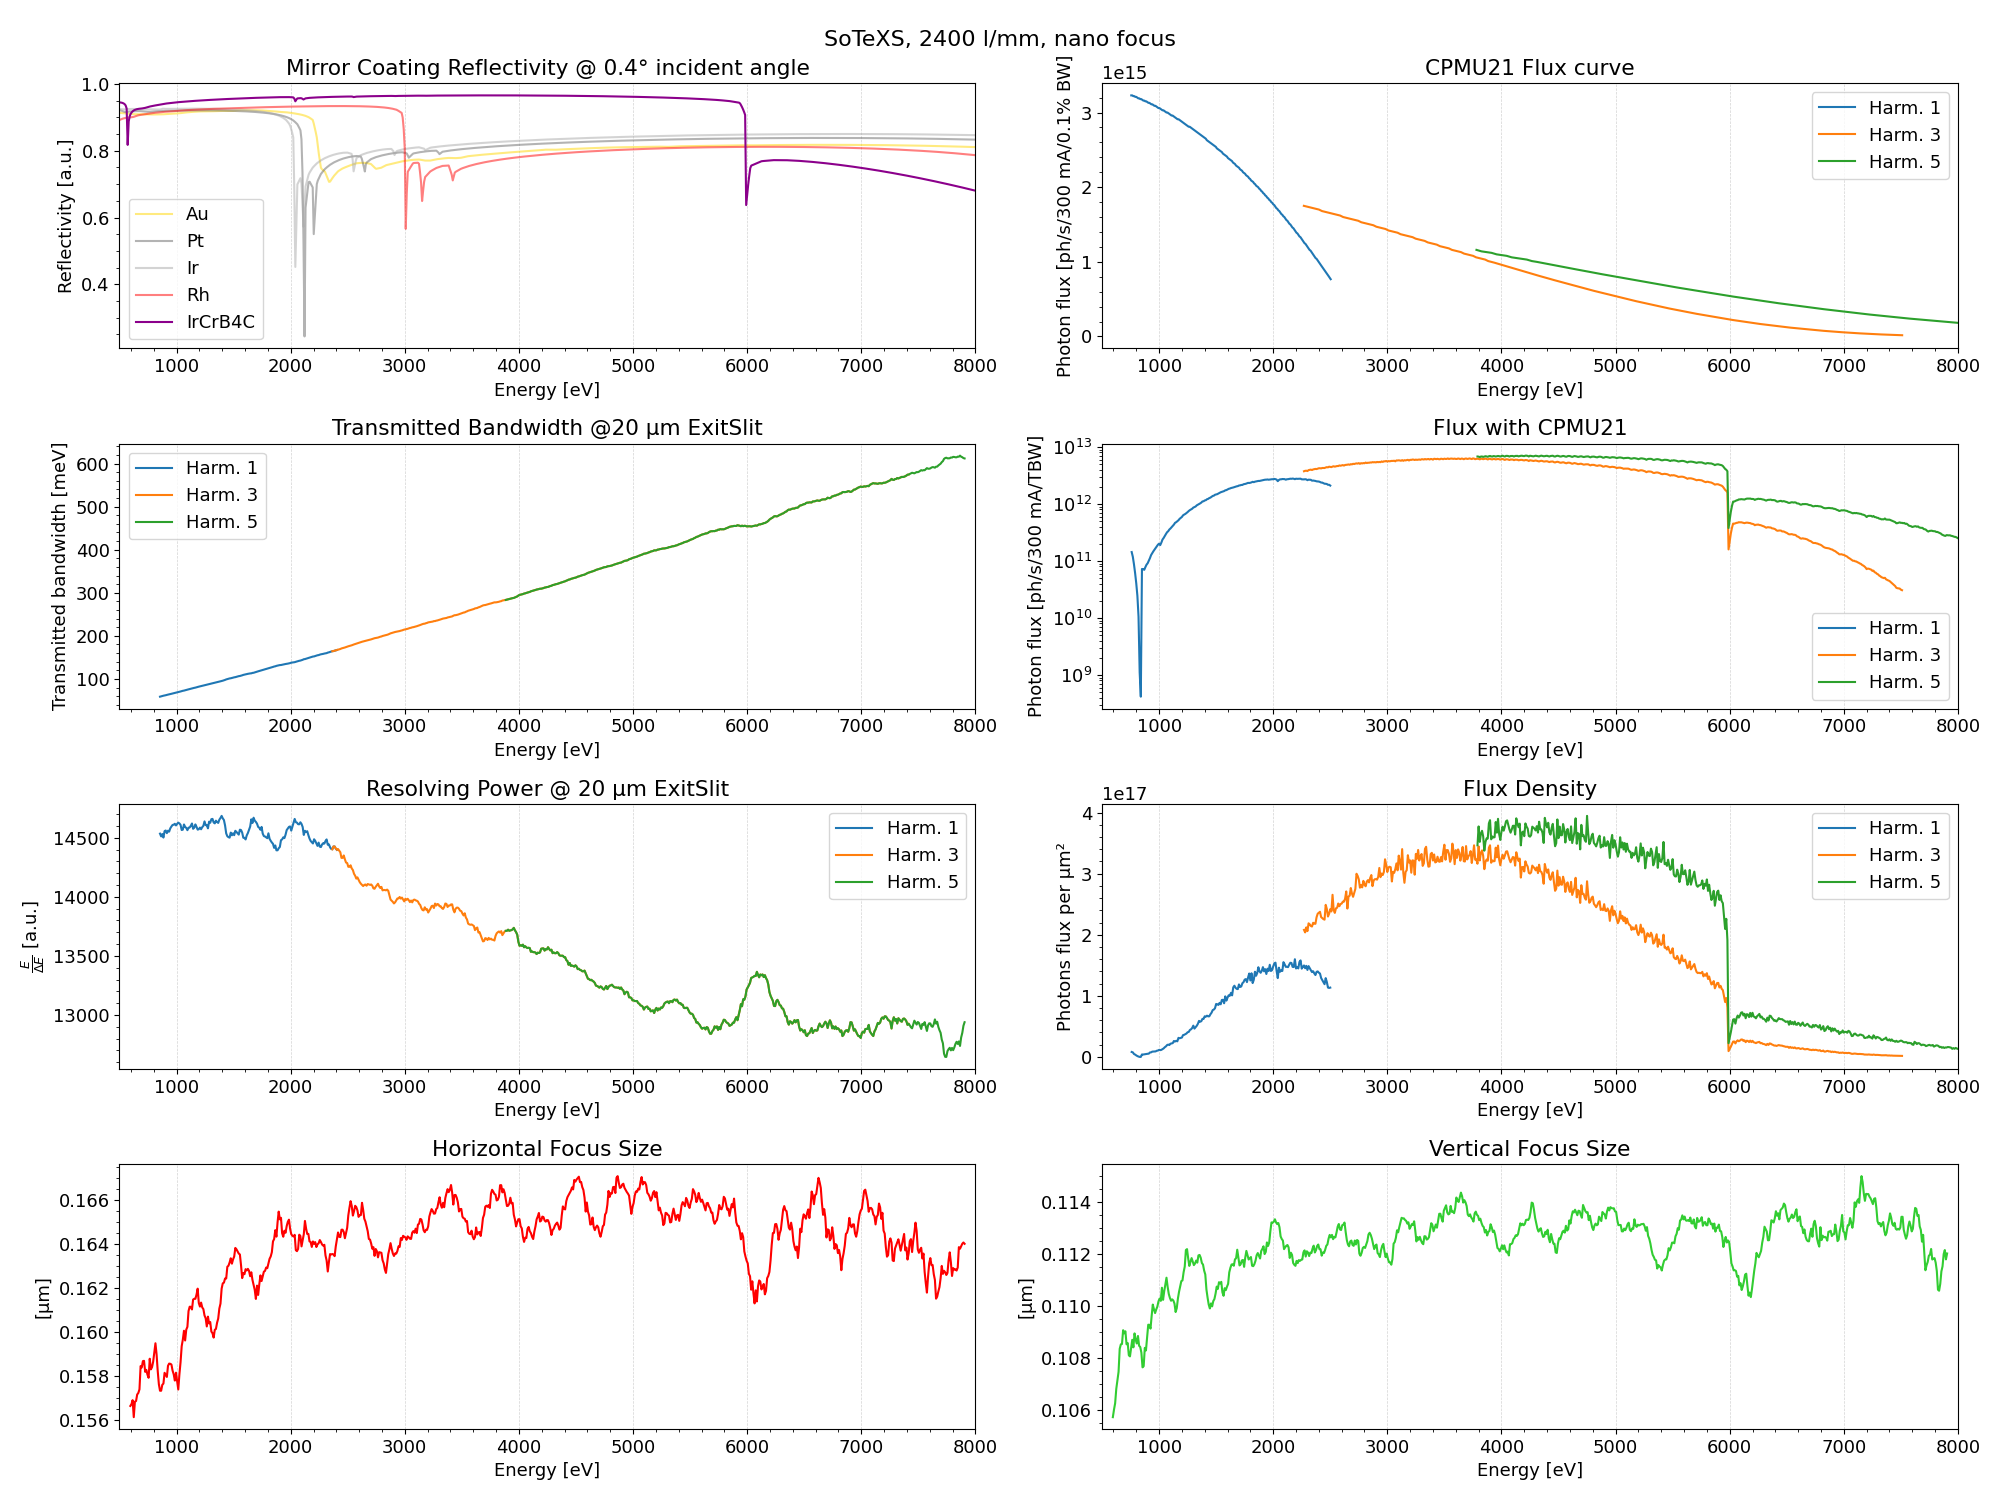
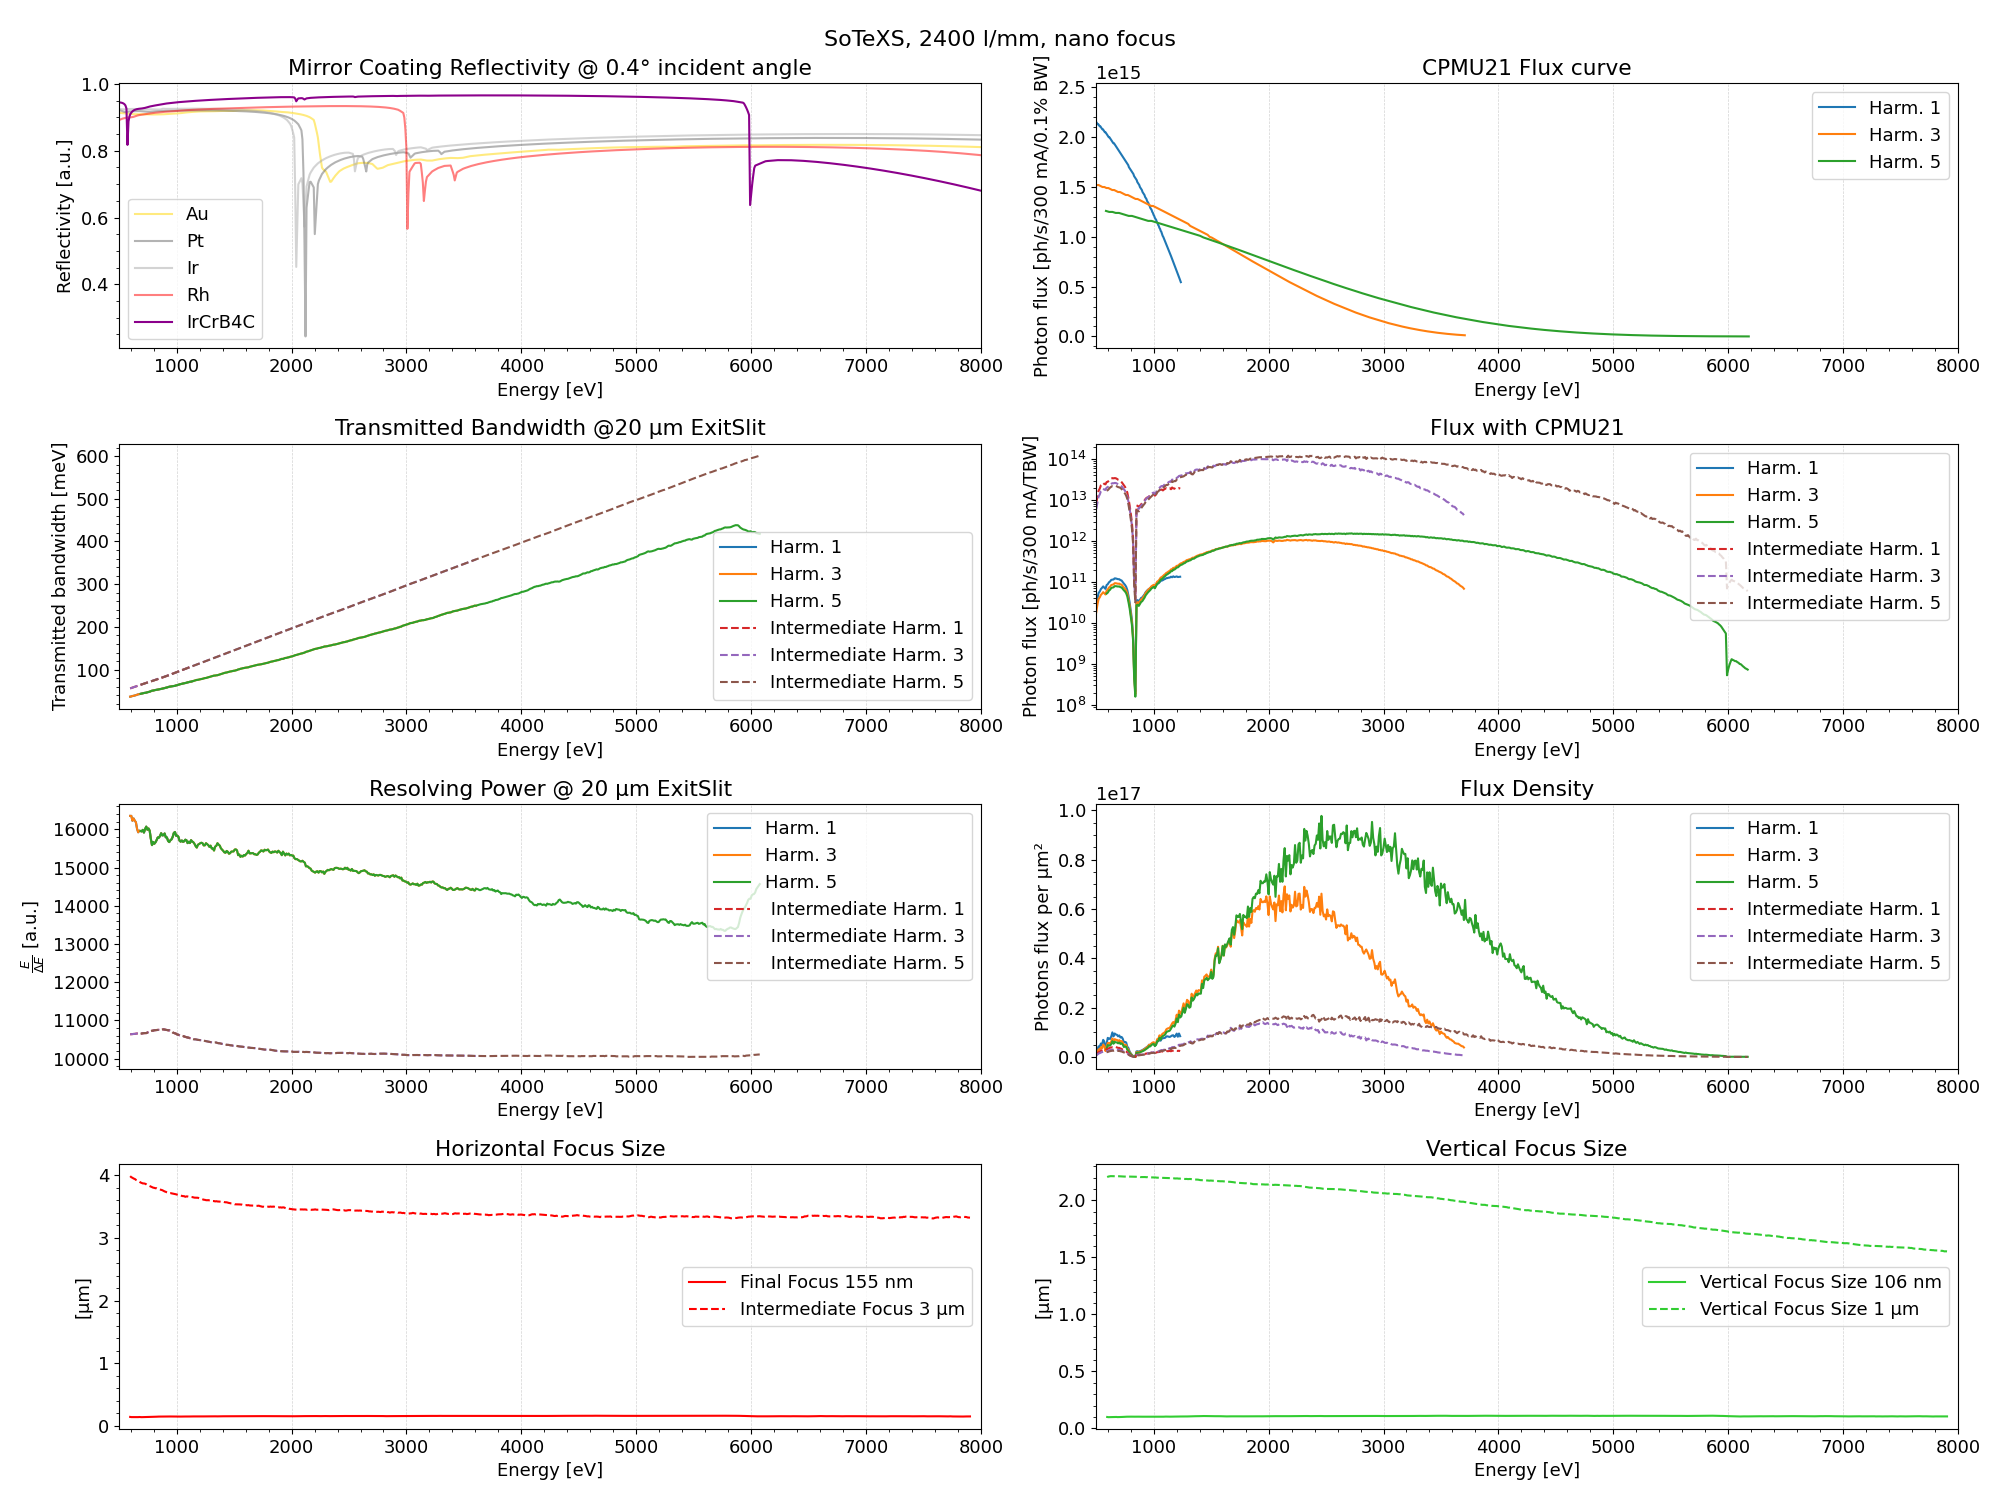
eval with intermediate focus

diff --git a/beamlines/Signature1-SoTeXS/simulations/characterization/eval_2400.py b/beamlines/Signature1-SoTeXS/simulations/characterization/eval_2400.py
@@ -23,6 +23,10 @@ mov_av = p.moving_average
 BL_file_path = os.path.join('RAYPy_Simulation_sotexs_2400', 'DetectorAtFocus_RawRaysOutgoing.csv')
 BL_df = pd.read_csv(BL_file_path)
 
+# Read CSV-File of the Beamline Simulation
+BL_file_path_intermediate = os.path.join('RAYPy_Simulation_sotexs_2400', 'IntermediateFocus_RawRaysIncoming.csv')
+BL_df_intermediate = pd.read_csv(BL_file_path_intermediate)
+
 
 ##############################################################
 # PLOTTING AND ANALYSIS
@@ -104,6 +108,15 @@ for harm in harms:
              mov_av(filtered_df['Bandwidth']*1000, window),
              label=f'Harm. {harm}')
 
+for harm in harms:
+    Emin_harm = undulator_df[f'Energy{harm}[eV]'].min()
+    Emax_harm = undulator_df[f'Energy{harm}[eV]'].max()
+    filtered_df = BL_df_intermediate[(BL_df_intermediate['PhotonEnergy'] >= Emin_harm) & (BL_df_intermediate['PhotonEnergy'] <= Emax_harm)]
+    ax3.plot(mov_av(filtered_df['PhotonEnergy'], window), 
+             mov_av(filtered_df['Bandwidth']*1000, window),
+             label=f'Intermediate Harm. {harm}', 
+             linestyle='--')
+    
 ax3.set_title(f'Transmitted Bandwidth @{int(SlitSize[0]*1000)} µm ExitSlit')
 ax3.set_xlabel('Energy [eV]')
 ax3.set_ylabel('Transmitted bandwidth [meV]')
@@ -122,6 +135,12 @@ for harm in harms:
     filtered_df = BL_df[(BL_df['PhotonEnergy'] >= Emin_harm) & (BL_df['PhotonEnergy'] <= Emax_harm)]
     ax4.plot(filtered_df['PhotonEnergy'], filtered_df[f'PhotonFlux{harm}'], label=f'Harm. {harm}')
 
+for harm in harms:
+    Emin_harm = undulator_df[f'Energy{harm}[eV]'].min()
+    Emax_harm = undulator_df[f'Energy{harm}[eV]'].max()    
+    filtered_df = BL_df_intermediate[(BL_df_intermediate['PhotonEnergy'] >= Emin_harm) & (BL_df_intermediate['PhotonEnergy'] <= Emax_harm)]
+    ax4.plot(filtered_df['PhotonEnergy'], filtered_df[f'PhotonFlux{harm}'], label=f'Intermediate Harm. {harm}', linestyle='--')
+        
 ax4.set_title('Flux with CPMU21')
 ax4.set_xlabel('Energy [eV]')
 ax4.set_ylabel('Photon flux [ph/s/300 mA/TBW]')
@@ -142,6 +161,14 @@ for harm in harms:
              mov_av(filtered_df[f'PhotonEnergy']/filtered_df[f'Bandwidth'], window),
              label=f'Harm. {harm}')
 
+for harm in harms:
+    Emin_harm = undulator_df[f'Energy{harm}[eV]'].min()
+    Emax_harm = undulator_df[f'Energy{harm}[eV]'].max()    
+    filtered_df = BL_df_intermediate[(BL_df_intermediate['PhotonEnergy'] >= Emin_harm) & (BL_df_intermediate['PhotonEnergy'] <= Emax_harm)]
+    ax5.plot(mov_av(filtered_df['PhotonEnergy'], window),
+             mov_av(filtered_df[f'PhotonEnergy']/filtered_df[f'Bandwidth'], window),
+             label=f' Intermediate Harm. {harm}', linestyle='--')
+
 ax5.set_title(f'Resolving Power @ {int(SlitSize[0]*1000)} µm ExitSlit')
 ax5.set_xlabel('Energy [eV]')
 ax5.set_ylabel(r'$\frac{E}{\Delta E}$ [a.u.]')
@@ -160,6 +187,13 @@ for harm in harms:
     foc_area = (filtered_df['VerticalFocusFWHM']*filtered_df['HorizontalFocusFWHM'])*1000  # in µm²
     ax6.plot(filtered_df['PhotonEnergy'],filtered_df[f'PhotonFlux{harm}']/foc_area, label=f'Harm. {harm}')
 
+for harm in harms:
+    Emin_harm = undulator_df[f'Energy{harm}[eV]'].min()
+    Emax_harm = undulator_df[f'Energy{harm}[eV]'].max()
+    filtered_df = BL_df_intermediate[(BL_df['PhotonEnergy'] >= Emin_harm) & (BL_df_intermediate['PhotonEnergy'] <= Emax_harm)]
+    foc_area = (filtered_df['VerticalFocusFWHM']*filtered_df['HorizontalFocusFWHM'])*1000  # in µm²
+    ax6.plot(filtered_df['PhotonEnergy'],filtered_df[f'PhotonFlux{harm}']/foc_area, label=f'Intermediate Harm. {harm}', linestyle='--')
+
 ax6.set_title('Flux Density')
 ax6.set_xlabel('Energy [eV]')
 ax6.set_ylabel('Photons flux per µm²')
@@ -172,27 +206,49 @@ ax6.grid(which='major', axis='x', linestyle='--', linewidth=0.5, color='lightgre
 ax7 = axs[3, 0]
 ax7.plot(mov_av(BL_df['PhotonEnergy'], window),
          mov_av(BL_df['HorizontalFocusFWHM']*1000, window),
-         label='Horizontal Focus Size', color='red')
+         label=f"Final Focus {int((BL_df['HorizontalFocusFWHM'] * 1e6).mean())} nm",
+         color='red')
+
+ax7.plot(mov_av(BL_df_intermediate['PhotonEnergy'], window),
+         mov_av(BL_df_intermediate['HorizontalFocusFWHM']*1000, window),
+         label=f"Intermediate Focus {int((BL_df_intermediate['HorizontalFocusFWHM'] * 1e3).mean())} µm",
+         color='red', linestyle='--')
 
 ax7.set_title('Horizontal Focus Size')
 ax7.set_xlabel('Energy [eV]')
 ax7.set_ylabel('[µm]')
 ax7.set_xlim(x_range)
 ax7.minorticks_on()
+ax7.legend()
 ax7.grid(which='major', axis='x', linestyle='--', linewidth=0.5, color='lightgrey')
 
 # Vertical Focus Size
 ax8 = axs[3, 1]
 
-ax8.plot(mov_av(BL_df['PhotonEnergy'], window),
-         mov_av(BL_df['VerticalFocusFWHM']*1000, window),
-         label='Vertical Focus Size', color='limegreen')
+mean_val_vert = int((BL_df['VerticalFocusFWHM'] * 1e6).mean())
+mean_val_vert_inter = int((BL_df_intermediate['VerticalFocusFWHM'] * 1e3).mean())
+
+ax8.plot(
+    mov_av(BL_df['PhotonEnergy'], window),
+    mov_av(BL_df['VerticalFocusFWHM'] * 1000, window),
+    label=f"Vertical Focus Size {mean_val_vert} nm",
+    color='limegreen'
+)
+
+ax8.plot(
+    mov_av(BL_df_intermediate['PhotonEnergy'], window),
+    mov_av(BL_df_intermediate['VerticalFocusFWHM'] * 1000, window),
+    label=f"Vertical Focus Size {mean_val_vert_inter} µm",
+    color='limegreen',
+    linestyle='--'
+)
 
 ax8.set_title('Vertical Focus Size')
 ax8.set_xlabel('Energy [eV]')
 ax8.set_ylabel('[µm]')
 ax8.set_xlim(x_range)
 ax8.minorticks_on()
+ax8.legend()
 ax8.grid(which='major', axis='x', linestyle='--', linewidth=0.5, color='lightgrey')
 
 
@@ -273,4 +329,4 @@ ax.grid(which='major', axis='x', linestyle='--', linewidth=0.5, color='lightgrey
 plt.tight_layout()
 plt.savefig('plot/Ni-B4C-multilayer.png')
 
-plt.show()
+# plt.show()
